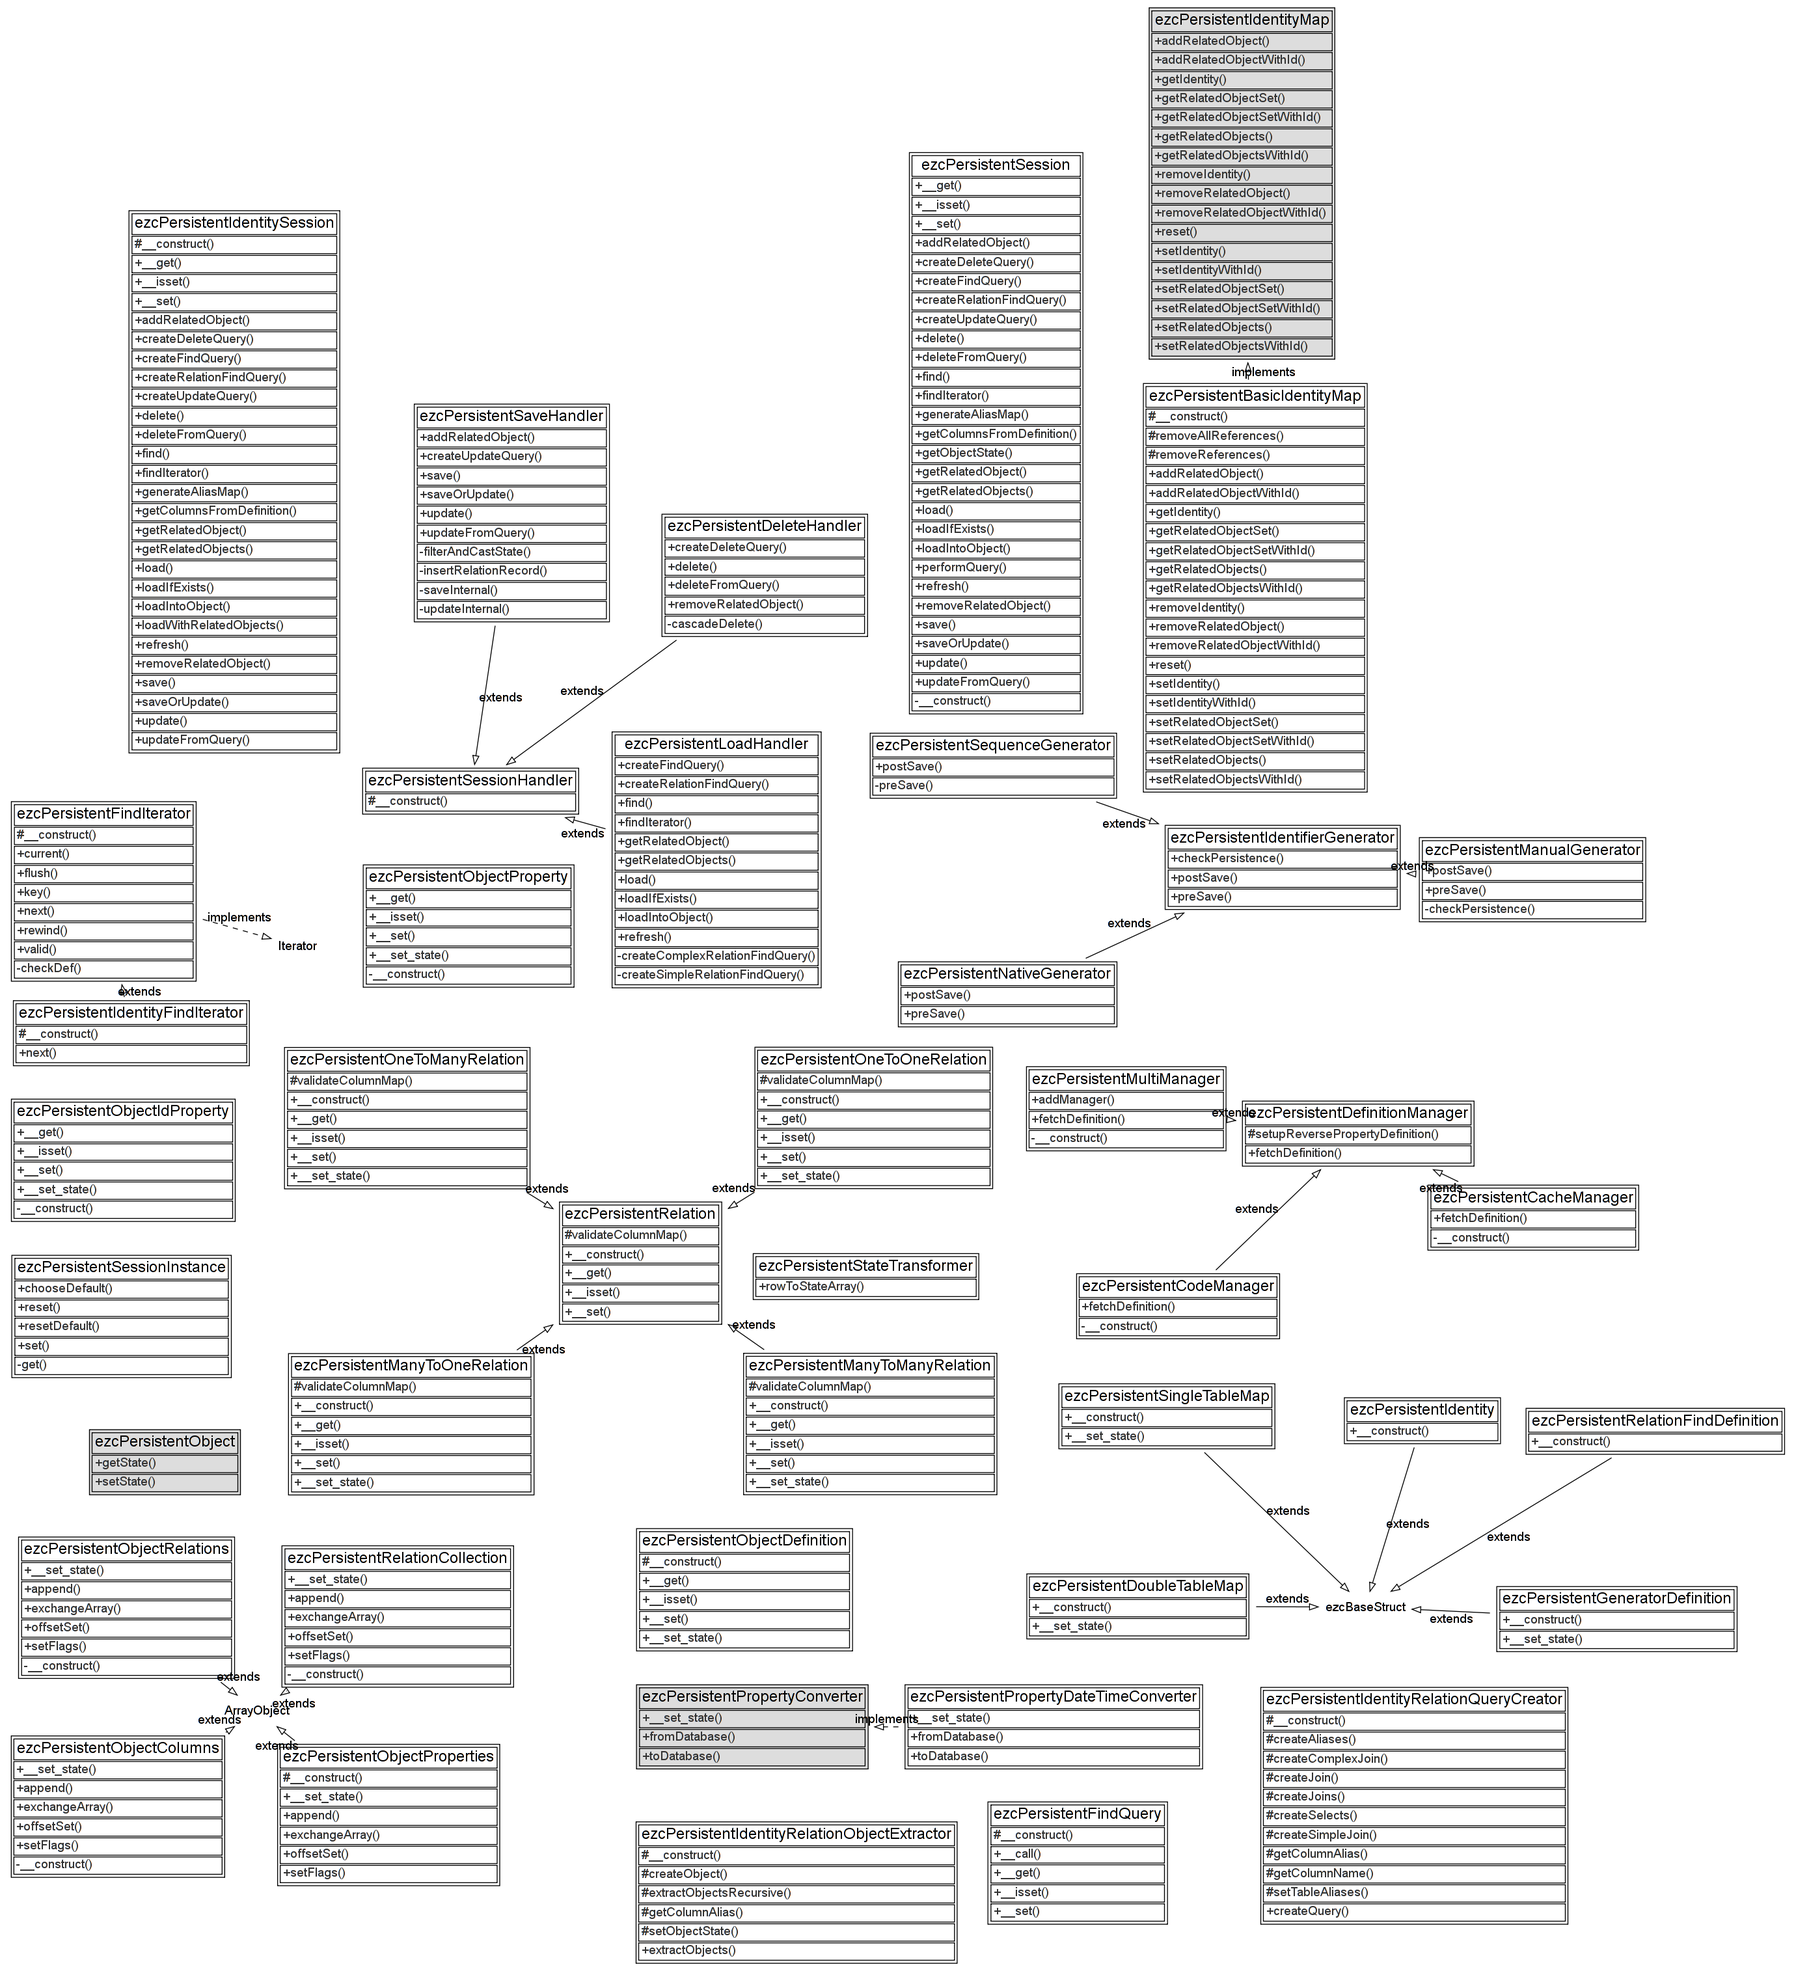
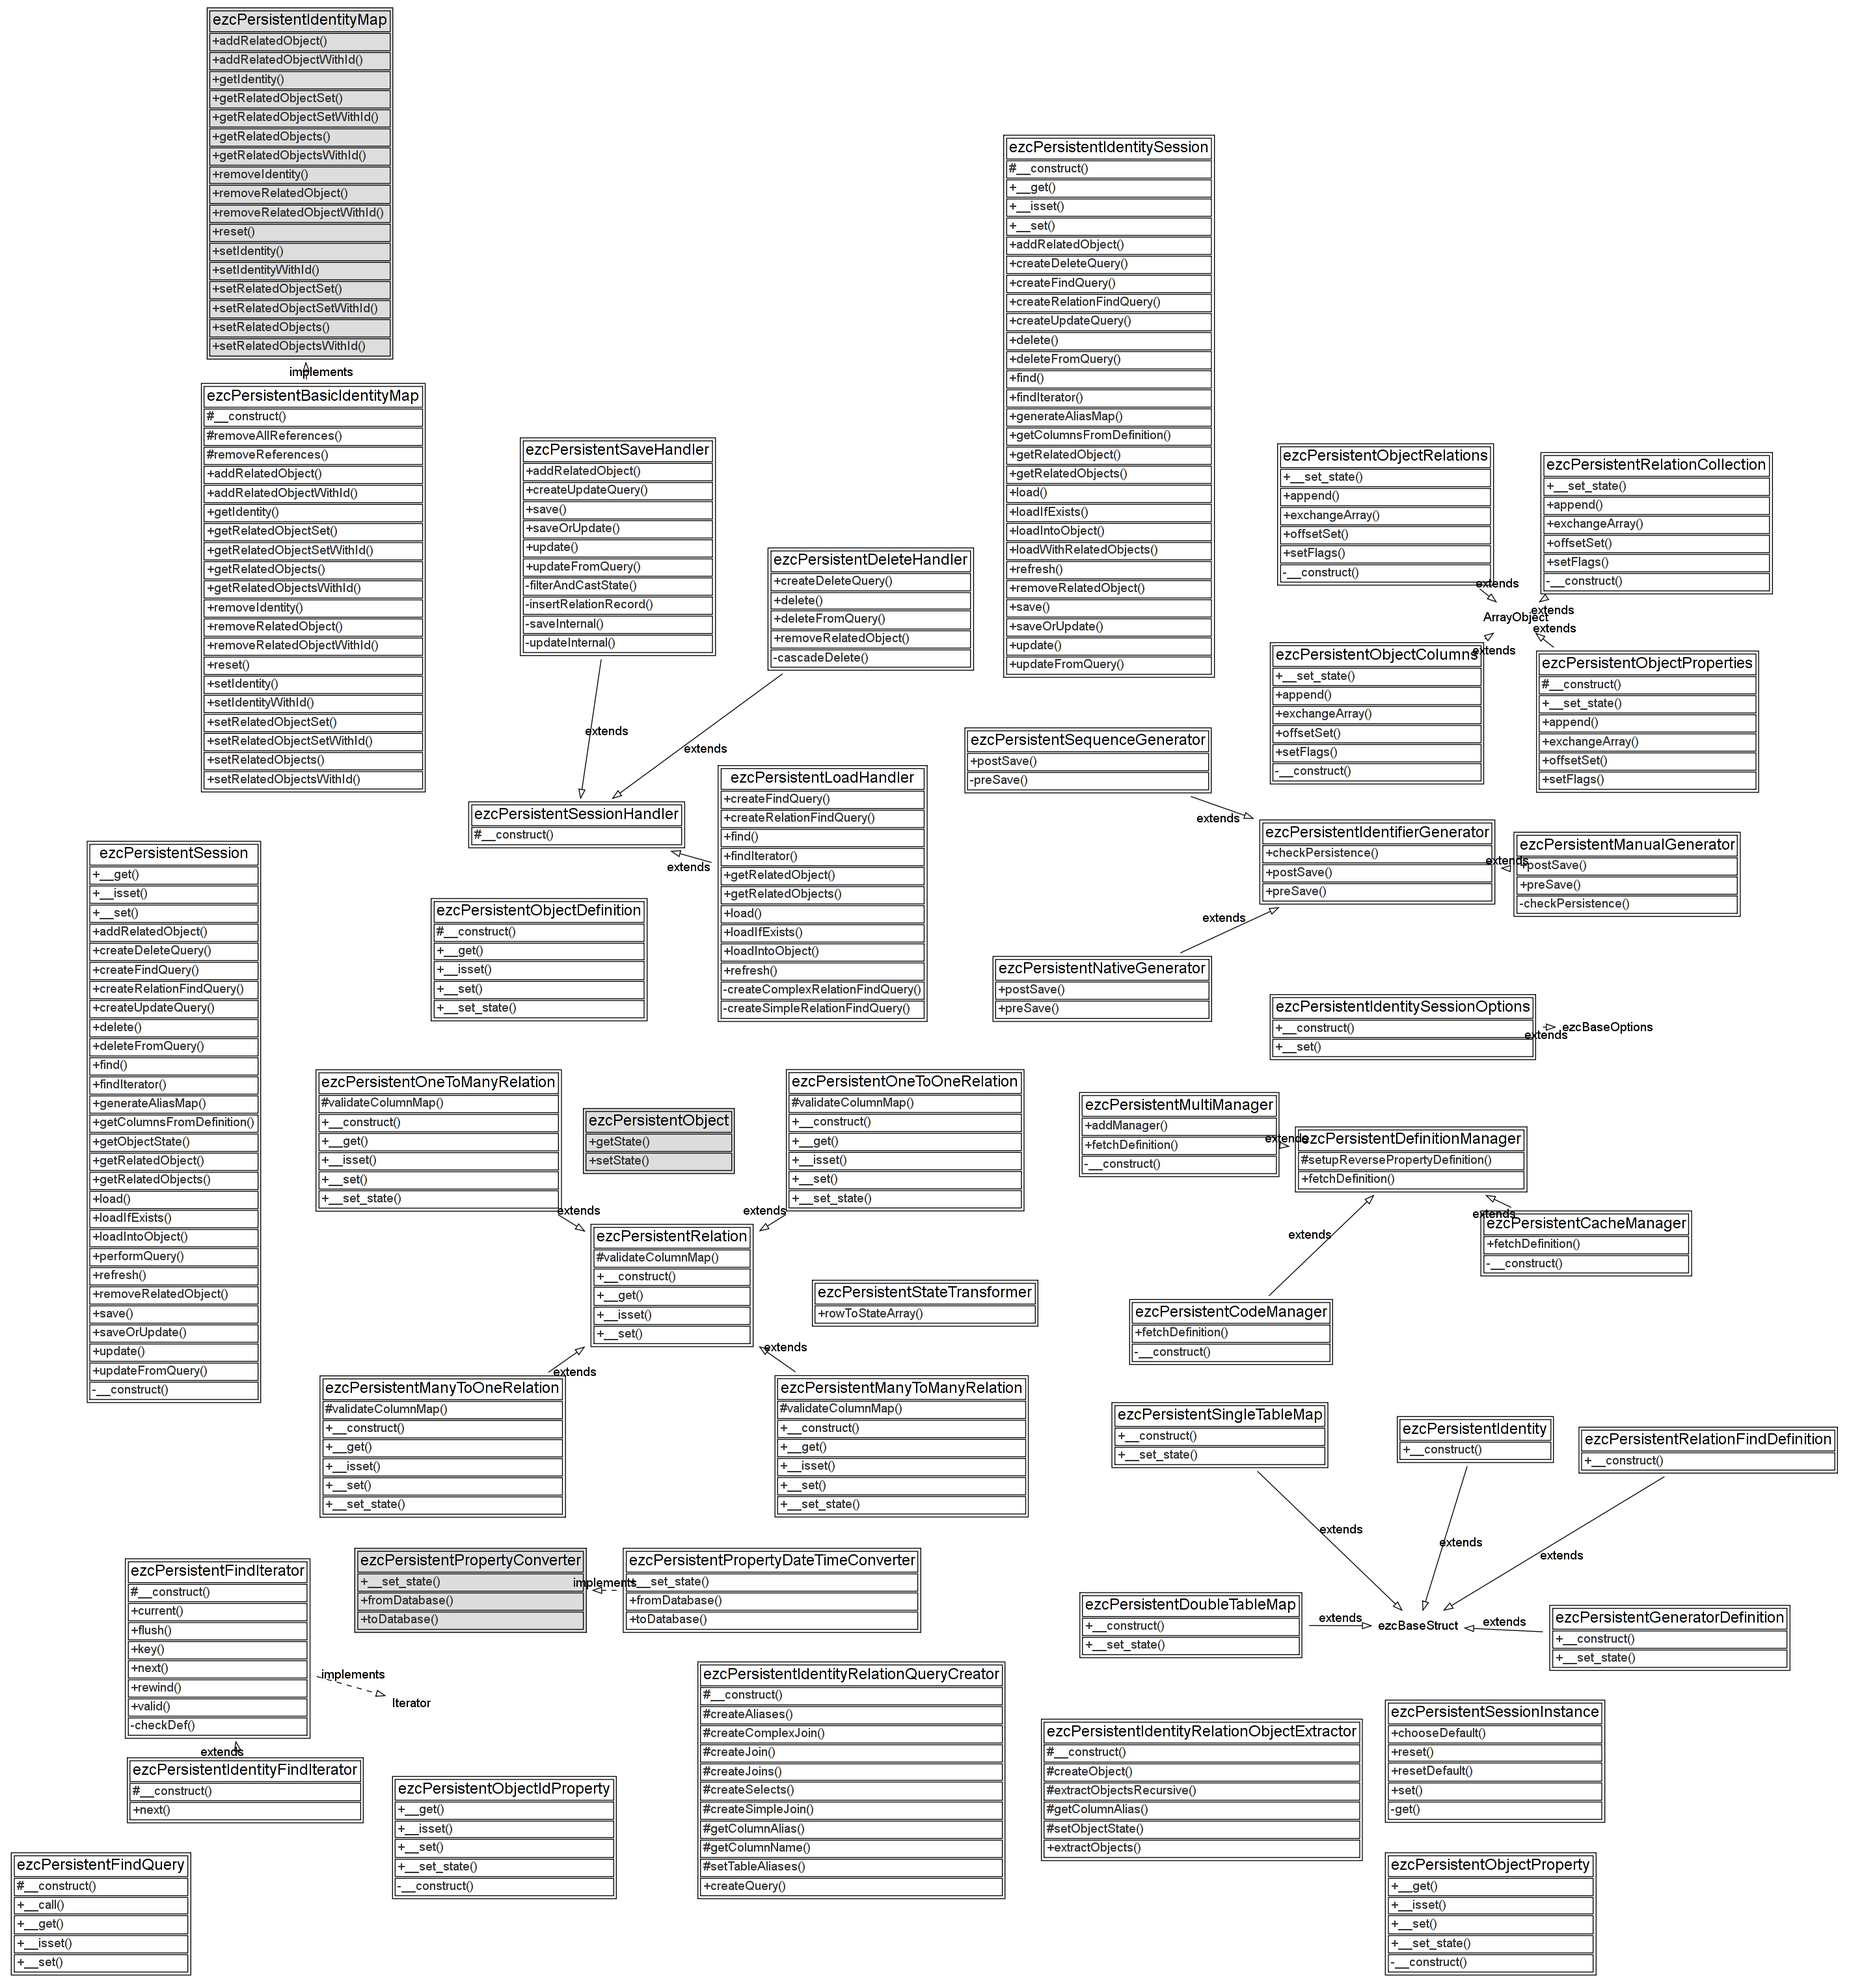
- Added ezcPersistentIdentitySessionOptions class.
git-svn-id: http://svn.ez.no/svn/ezcomponents/trunk@10038 bc0e7bdc-f0fc-0310-8ff6-f601c06e1256

Changed region(s): [[0.0, 0.0, 0.9659, 1.0], [0.7478, 0.7138, 0.9971, 0.7448]]

diff --git a/PersistentObject/src/options/identity_session.php b/PersistentObject/src/options/identity_session.php
@@ -1,0 +1,80 @@
+<?php
+/**
+ * File containing the ezcPersistentIdentitySessionOptions class.
+ *
+ * @package PersistentObject
+ * @version //autogen//
+ * @copyright Copyright (C) 2005-2009 eZ Systems AS. All rights reserved.
+ * @license http://ez.no/licenses/new_bsd New BSD License
+ */
+
+/**
+ * Options class for ezcPersistentIdentitySession.
+ *
+ * @property bool refetch
+ *                If this option is set to true, the identity session will
+ *                re-fetch all objects when they are requested, instead of
+ *                getting them from the identity map. Attention: This might
+ *                lead to inconsistencies, if you are using old object
+ *                instances in your application!
+ *
+ * @package PersistentObject
+ * @version //autogen//
+ */
+class ezcPersistentIdentitySessionOptions extends ezcBaseOptions
+{
+    /**
+     * Construct a new options object.
+     *
+     * Options are constructed from an option array by default. The constructor
+     * automatically passes the given options to the __set() method to set them 
+     * in the class.
+     * 
+     * @throws ezcBasePropertyNotFoundException
+     *         If trying to access a non existent property.
+     * @throws ezcBaseValueException
+     *         If the value for a property is out of range.
+     * @param array(string=>mixed) $options The initial options to set.
+     */
+    public function __construct( array $options = array() )
+    {
+        $this->properties['refetch'] = false;
+        parent::__construct( $options );
+    }
+
+    /**
+     * Sets an option.
+     *
+     * This method is called when an option is set.
+     * 
+     * @param string $propertyName  The name of the option to set.
+     * @param mixed $propertyValue The option value.
+     * @ignore
+     *
+     * @throws ezcBasePropertyNotFoundException
+     *         if the given property does not exist.
+     * @throws ezcBaseValueException
+     *         if the value to be assigned to a property is invalid.
+     * @throws ezcBasePropertyPermissionException
+     *         if the property to be set is a read-only property.
+     */
+    public function __set( $propertyName, $propertyValue )
+    {
+        switch ( $propertyName )
+        {
+            case 'refetch':
+                if ( !is_bool( $propertyValue ) )
+                {
+                    throw new ezcBaseValueException( $propertyName, $propertyValue, 'bool' );
+                }
+                break;
+            
+            default:
+                throw new ezcBasePropertyNotFoundException( $propertyName );
+        }
+
+        $this->properties[$propertyName] = $propertyValue;
+    }
+}
+
+?>

diff --git a/PersistentObject/tests/persistent_identity_session_options_test.php b/PersistentObject/tests/persistent_identity_session_options_test.php
@@ -1,0 +1,95 @@
+<?php
+/**
+ * @copyright Copyright (C) 2005-2009 eZ systems as. All rights reserved.
+ * @license http://ez.no/licenses/new_bsd New BSD License
+ * @version //autogentag//
+ * @filesource
+ * @package PersistentObject
+ * @subpackage Tests
+ */
+
+/**
+ * Tests the load facilities of ezcPersistentIdenitySessionOptions.
+ *
+ * @package PersistentObject
+ * @subpackage Tests
+ */
+class ezcPersistentIdentitySessionOptionsTest extends ezcTestCase
+{
+    public static function suite()
+    {
+        return new PHPUnit_Framework_TestSuite( __CLASS__ );
+    }
+
+    public function testCtorNoArgs()
+    {
+        $opts = new ezcPersistentIdentitySessionOptions();
+
+        $this->assertFalse(
+            $opts->refetch
+        );
+    }
+
+    public function testCtorArgs()
+    {
+        $opts = new ezcPersistentIdentitySessionOptions(
+            array( 'refetch' => true )
+        );
+
+        $this->assertTrue(
+            $opts->refetch
+        );
+    }
+
+    public function testGetAccessSuccess()
+    {
+        $opts = new ezcPersistentIdentitySessionOptions();
+
+        $this->assertFalse(
+            $opts->refetch
+        );
+    }
+
+    public function testGetAccessFailure()
+    {
+        $opts = new ezcPersistentIdentitySessionOptions();
+
+        try
+        {
+            echo $opts->fooBar;
+            $this->fail( 'Exception not thrown on get access to non-existent property.' );
+        } catch ( ezcBasePropertyNotFoundException $e ) {}
+    }
+
+    public function testIssetAccess()
+    {
+        $opts = new ezcPersistentIdentitySessionOptions();
+
+        $this->assertTrue( isset( $opts->refetch ) );
+        $this->assertFalse( isset( $opts->fooBar ) );
+    }
+    
+    public function testSetAccessSuccess()
+    {
+        $opts = new ezcPersistentIdentitySessionOptions();
+
+        $this->assertSetProperty(
+            $opts,
+            'refetch',
+            array( true, false )
+        );
+    }
+    
+    public function testSetAccessFailure()
+    {
+        $opts = new ezcPersistentIdentitySessionOptions();
+
+        $this->assertSetPropertyFails(
+            $opts,
+            'refetch',
+            array( null, 23, 42.23, 'foo', array(), new stdClass() )
+        );
+    }
+}
+
+?>

diff --git a/PersistentObject/tests/suite.php b/PersistentObject/tests/suite.php
@@ -21,6 +21,7 @@ require_once 'persistent_session_load_test.php';
 require_once 'persistent_session_misc_test.php';
 require_once 'persistent_session_save_test.php';
 
+require_once 'persistent_identity_session_options_test.php';
 require_once 'persistent_identity_session_delete_test.php';
 require_once 'persistent_identity_session_find_test.php';
 require_once 'persistent_identity_session_load_test.php';
@@ -77,6 +78,7 @@ class ezcPersistentObjectSuite extends PHPUnit_Framework_TestSuite
         $this->addTest( ezcPersistentSessionLoadTest::suite() );
         $this->addTest( ezcPersistentSessionMiscTest::suite() );
         $this->addTest( ezcPersistentSessionSaveTest::suite() );
+        $this->addTest( ezcPersistentIdentitySessionOptionsTest::suite() );
         $this->addTest( ezcPersistentIdentitySessionDeleteTest::suite() );
         $this->addTest( ezcPersistentIdentitySessionFindTest::suite() );
         $this->addTest( ezcPersistentIdentitySessionLoadTest::suite() );

diff --git a/PersistentObject/src/persistent_autoload.php b/PersistentObject/src/persistent_autoload.php
@@ -47,6 +47,7 @@ return array(
     'ezcPersistentIdentityRelationObjectExtractor'             => 'PersistentObject/identity_session/relation_object_extractor.php',
     'ezcPersistentIdentityRelationQueryCreator'                => 'PersistentObject/identity_session/relation_query_creator.php',
     'ezcPersistentIdentitySession'                             => 'PersistentObject/persistent_identity_session.php',
+    'ezcPersistentIdentitySessionOptions'                      => 'PersistentObject/options/identity_session.php',
     'ezcPersistentLoadHandler'                                 => 'PersistentObject/handlers/load_handler.php',
     'ezcPersistentManualGenerator'                             => 'PersistentObject/generators/manual_generator.php',
     'ezcPersistentManyToManyRelation'                          => 'PersistentObject/relations/many_to_many.php',
